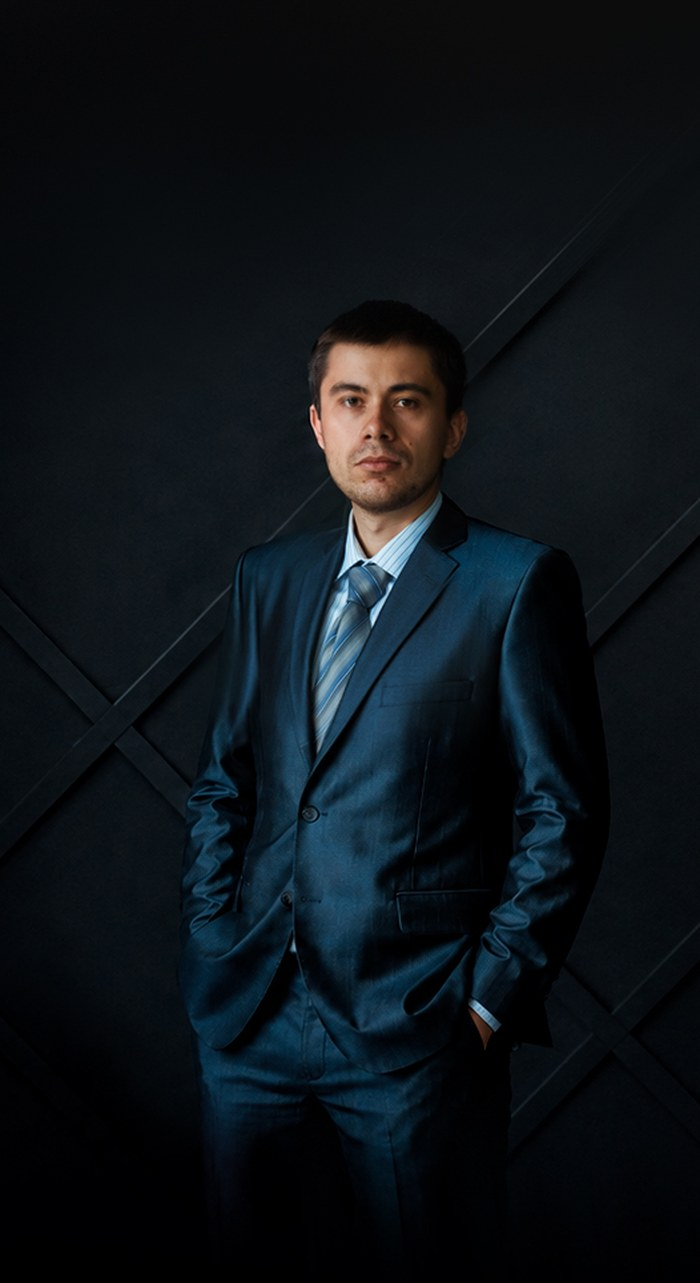
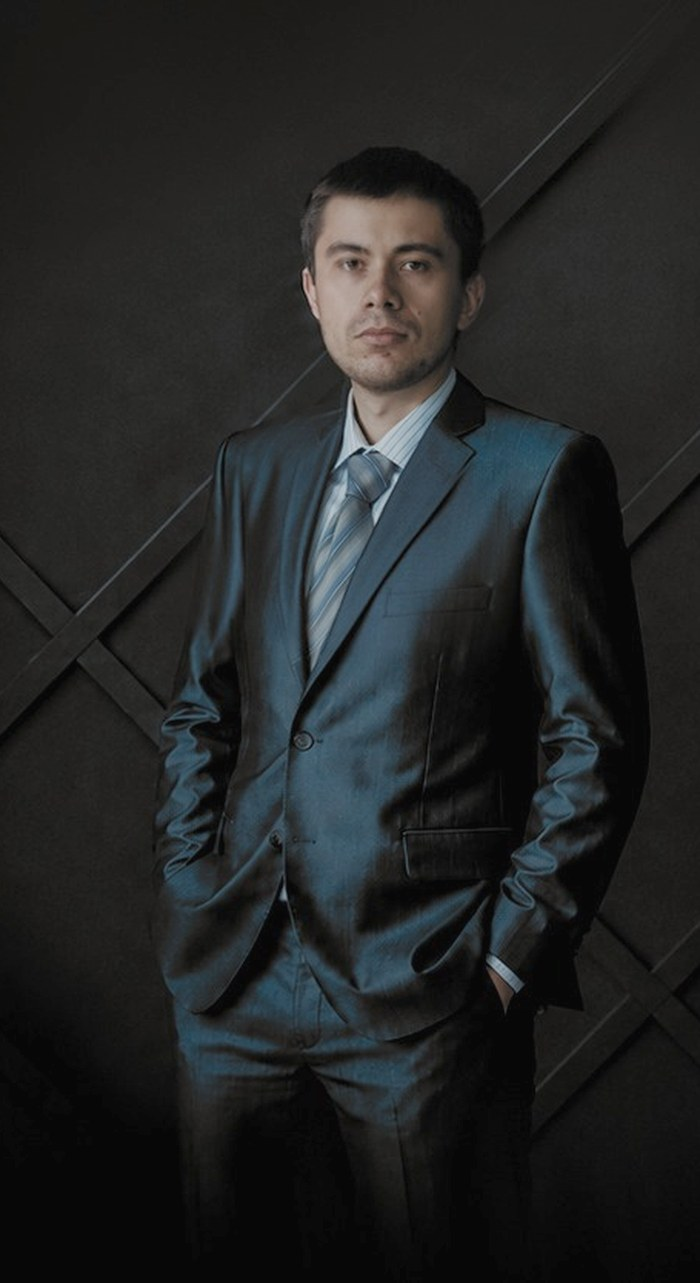
style(кто мы): тон фото Саши выровнен под снимок Алины
Кроп теперь берётся из обработанного faq-sasha-2026-wide-fit.jpg, плюс
гамма 0.80, лёгкий подъём теней и насыщенность -25%. Замер: яркость
19 -> 37, насыщенность 0.51 -> 0.11 (у Алины 105 и 0.065).

diff --git a/docs/site-map.md b/docs/site-map.md
@@ -122,6 +122,17 @@ y≈185 из 1920 по ширине файла, то есть 9.64vw от вер
 цвет `rgb(16,15,13)` — там виден другой, чуть более светлый участок
 кадра, чем на ПК, и общий цвет ПК давал ступеньку на стыке.
 
+**Блок «Кто мы» (`.duo`), фото Саши.** `sasha-duo-2026.jpg` — не
+отдельный файл с Диска, а вертикальный кроп из
+`faq-sasha-2026-wide-fit.jpg` (полная высота, центр по фигуре x=745,
+пропорция рамки 465/853). Так в кадр входит силуэт целиком и масштаб
+совпадает с фотографией Алины: файл с Диска `21.jpg` снят почти
+квадратно, по грудь, и в вертикальной рамке лицо выходило слишком
+крупным. Сверху добавлено выравнивание тона под снимок Алины: гамма
+0.80 (светлее), «дно» поднято на 3%, насыщенность −25%. Замер:
+яркость 19 → 37 (у Алины 105), насыщенность 0.51 → 0.11 (у Алины 0.065).
+Прежний `sasha-portrait.jpg` остался в репозитории.
+
 Прежние `faq-sasha-wide.jpg` и `faq-sasha-2026.jpg` в репозитории
 остались, но в вёрстке больше не используются.
 
